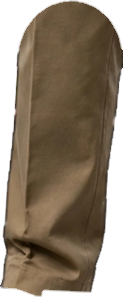
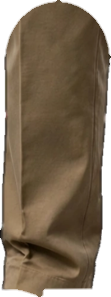
fight3d: Jeff v3 legs: per-skin legStraight IK option, no outward leg turn

diff --git a/fighter-art/rig/rig.js b/fighter-art/rig/rig.js
@@ -87,14 +87,16 @@ export function solve(rig, ch) {
       continue;
     }
     let dx = tg[0] - Hw[0], dy = tg[1] - Hw[1], d = Math.hypot(dx, dy);
-    d = Math.min(Math.max(d, Math.abs(L1 - L2) + 1e-3), L1 + L2 - 1e-3);
-    const base = Math.atan2(dy, dx), a = Math.acos((L1 * L1 + d * d - L2 * L2) / (2 * L1 * d));
-    const ka = base + ik._side * a, K = [Hw[0] + L1 * Math.cos(ka), Hw[1] + L1 * Math.sin(ka)];
+    // skin.legStraight (0..1, optional): small crouches shorten the leg (down to this scale) instead of bowing the knees out
+    const ls = SKIN.legStraight, c = ls ? Math.min(1, Math.max(ls, d / (L1 + L2))) : 1, l1 = L1 * c, l2 = L2 * c;
+    d = Math.min(Math.max(d, Math.abs(l1 - l2) + 1e-3), l1 + l2 - 1e-3);
+    const base = Math.atan2(dy, dx), a = Math.acos((l1 * l1 + d * d - l2 * l2) / (2 * l1 * d));
+    const ka = base + ik._side * a, K = [Hw[0] + l1 * Math.cos(ka), Hw[1] + l1 * Math.sin(ka)];
     const r1 = ka - Math.atan2(knee[1] - hip[1], knee[0] - hip[0]);
     const Fw = [Hw[0] + Math.cos(base) * d, Hw[1] + Math.sin(base) * d];
     const r2 = Math.atan2(Fw[1] - K[1], Fw[0] - K[0]) - Math.atan2(tgt[1] - knee[1], tgt[0] - knee[0]);
-    W[ub] = mul(mul(T(Hw[0], Hw[1]), R(r1)), S(cu.sx, cu.sy));
-    W[lb] = mul(mul(T(K[0], K[1]), R(r2)), S(cl.sx, cl.sy));
+    W[ub] = mul(mul(T(Hw[0], Hw[1]), R(r1)), S(cu.sx, cu.sy * c));
+    W[lb] = mul(mul(T(K[0], K[1]), R(r2)), S(cl.sx, cl.sy * c));
     if (ik.end) { const ce = ch[ik.end]; W[ik.end] = mul(mul(T(Fw[0] + ce.x, Fw[1] + ce.y), R(ce.rot * D2R + ce.follow * r2)), S(ce.sx, ce.sy)); }
   }
   return W;

diff --git a/fight3d/rig2d.js b/fight3d/rig2d.js
@@ -4,7 +4,7 @@
 import * as THREE from 'three';
 import { clamp, ease, qs } from './util.js?v=h3';
 import { FLOOR, scene } from './stage.js?v=h3';
-import { loadRig, channels, blend, draw, mul, T, S } from '../fighter-art/rig/rig.js?v=h3';
+import { loadRig, channels, blend, draw, mul, T, S } from '../fighter-art/rig/rig.js?v=h4';
 
 const ON = qs.get('rig') !== '0';
 const CPU = (qs.get('cpu') || 'gavin').toLowerCase(); // gavin (default) | ipo | tank | ozone | ryan | jeff

diff --git a/fighter-art/rig/tools/build_jeff_v2.py b/fighter-art/rig/tools/build_jeff_v2.py
@@ -175,7 +175,7 @@ for sd in 'LR':
     hipA = np.array(base(J[f'hip_{sd}'])); hip = np.array(J[f'hip_{sd}'], float)
     ank_rel = (np.array(J[f'an_{sd}'], float) - hip) * S
     a0 = math.atan2(ank_rel[0], ank_rel[1]); a1 = math.atan2(STANCE[sd] - hipA[0], ank_rel[1])
-    th = a1 - a0  # rotate about hip
+    th = (a1 - a0) if os.environ.get('LEG_TURN') else 0.0  # v3: no outward leg turn (natural stance)
     LEGROT[sd] = th
     Rm = np.array([[math.cos(th), math.sin(th)], [-math.sin(th), math.cos(th)]])
     knA = hipA + Rm @ ((np.array(J[f'kn_{sd}'], float) - hip) * S)
@@ -380,6 +380,7 @@ skin = {
     'about': 'Jeff v2: tan shirt, khaki pants, black dress shoes, red fez. Every body part cut from one '
              'full-body source with silhouette masks and ball joints. 6 ft at the skull (fez does not count).',
     'artSize': [ART_W, ART_H], 'scale': 1.0, 'groundY': GROUND_Y,
+    'legStraight': float(os.environ.get('LEG_STRAIGHT', '0.85')),
     'pivots': PIV_I,
     'ikTargets': {'foot_L': PIV_I['boot_L'], 'foot_R': PIV_I['boot_R']},
     'parts': skin_parts,
